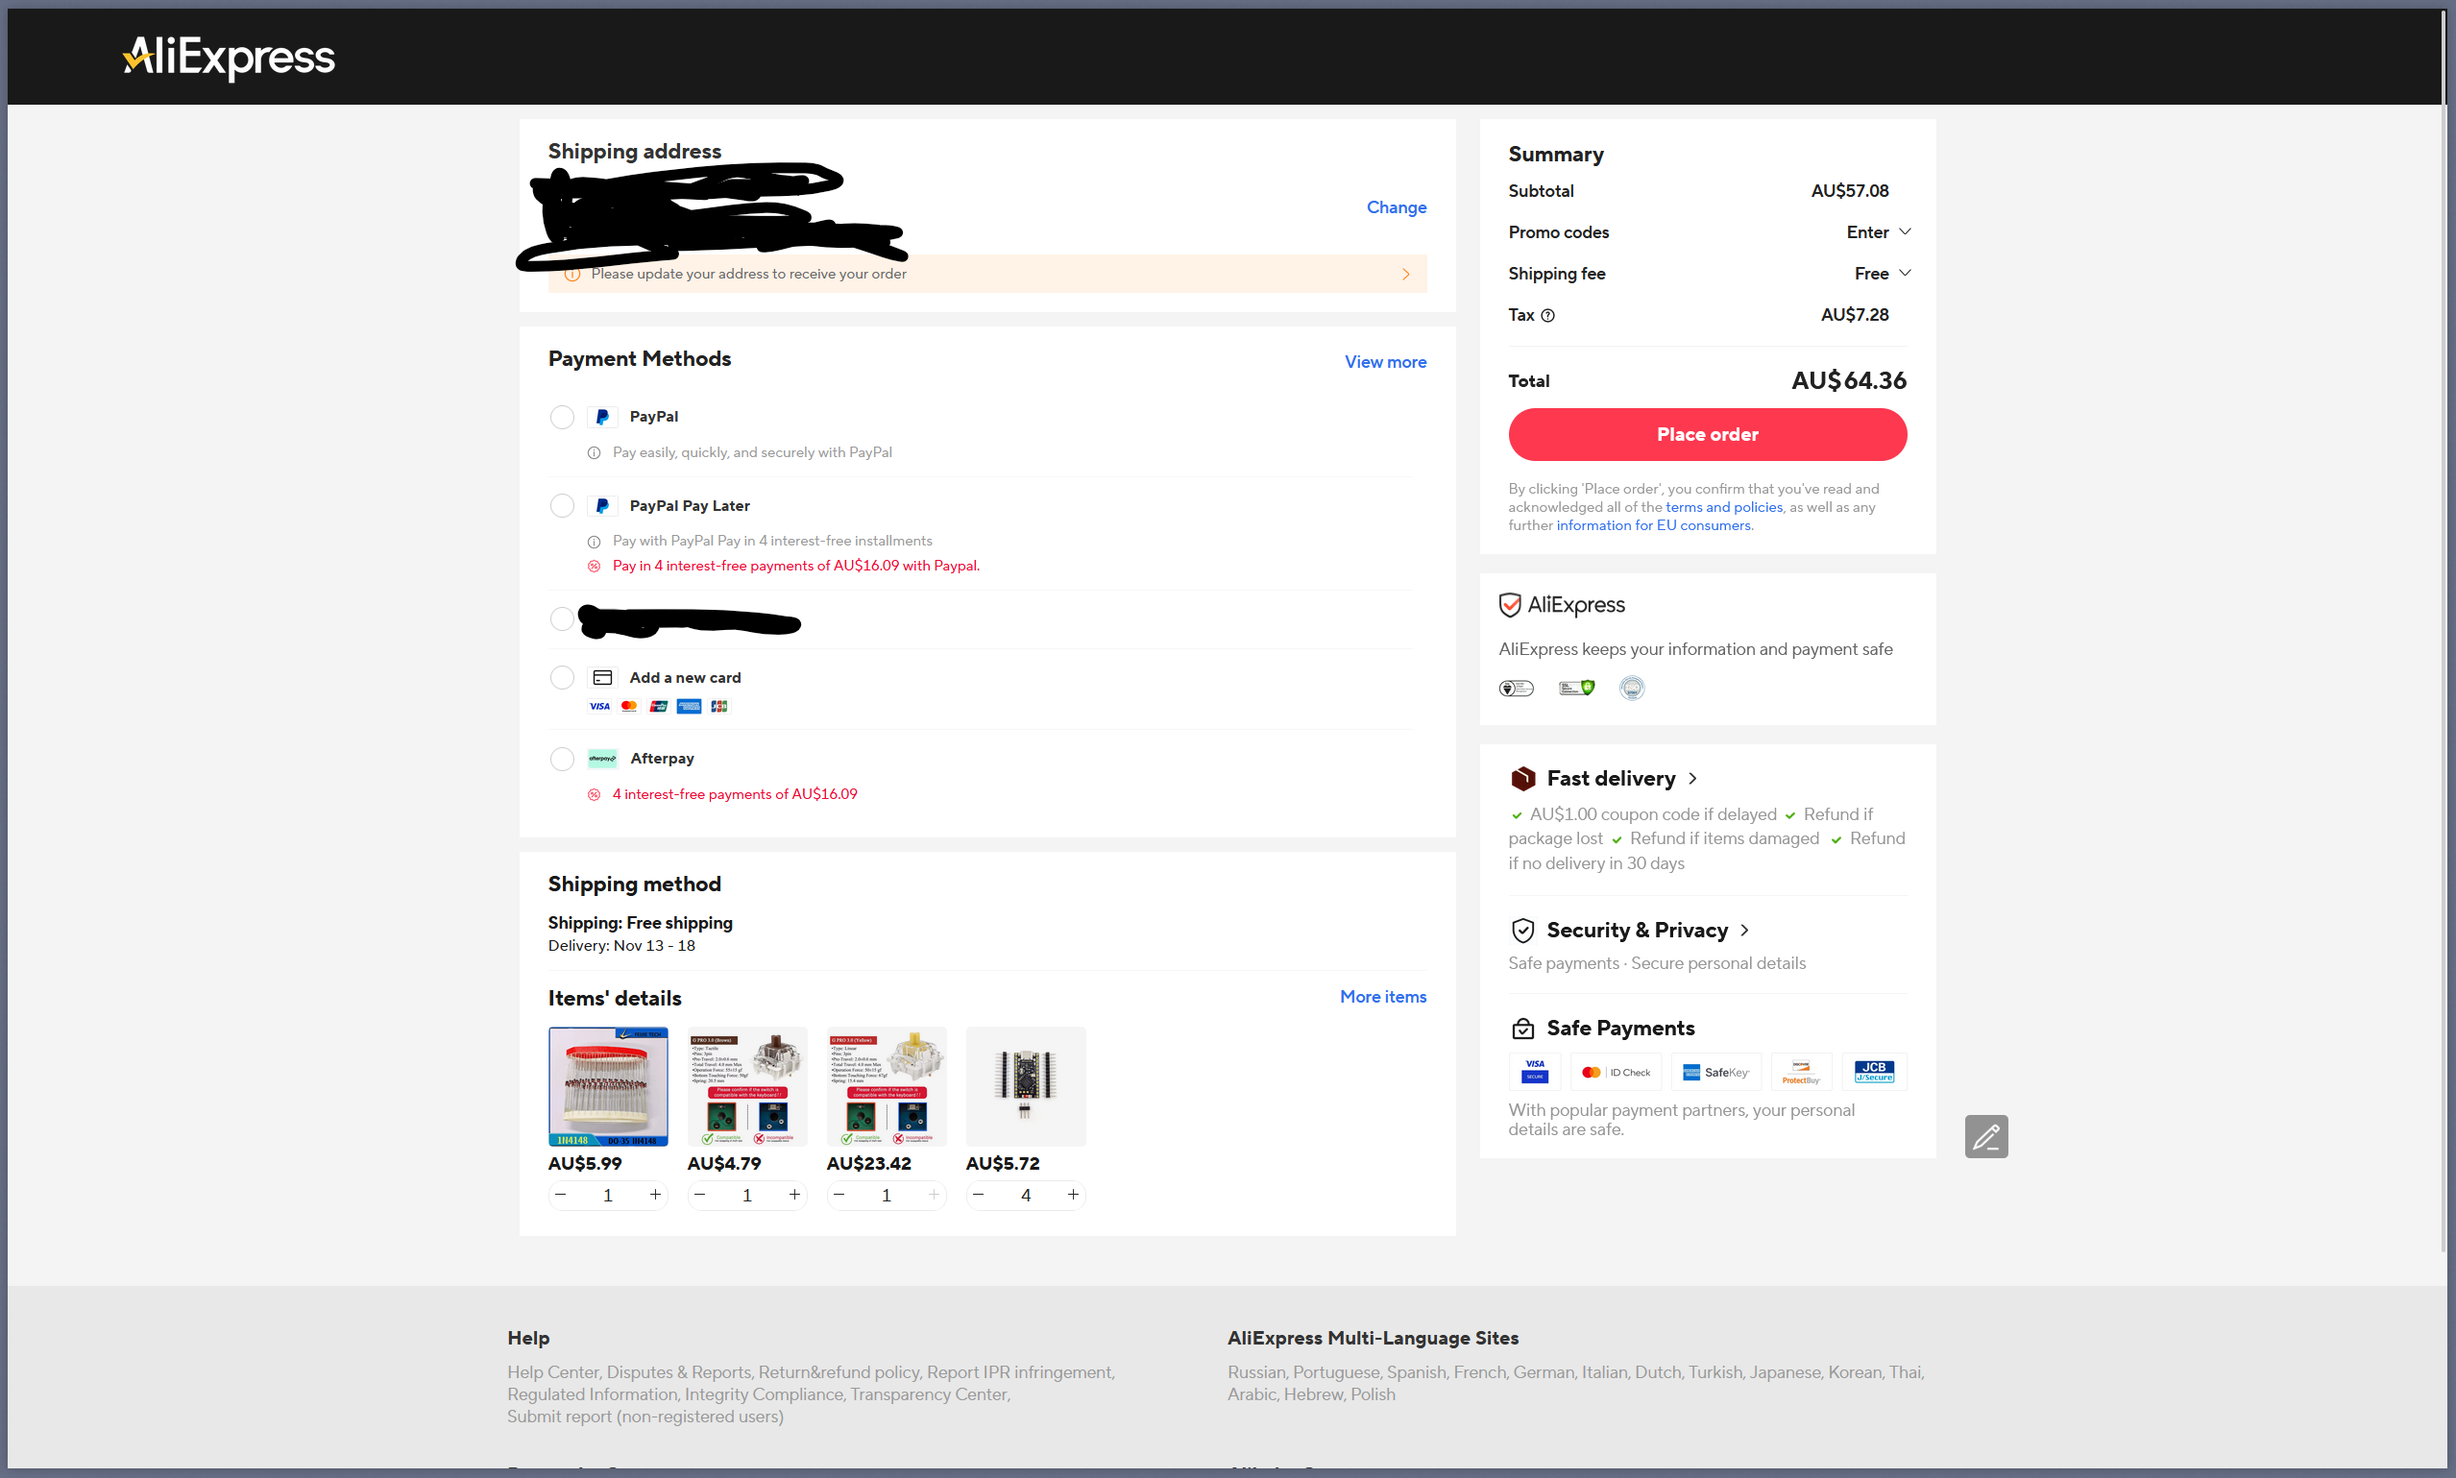
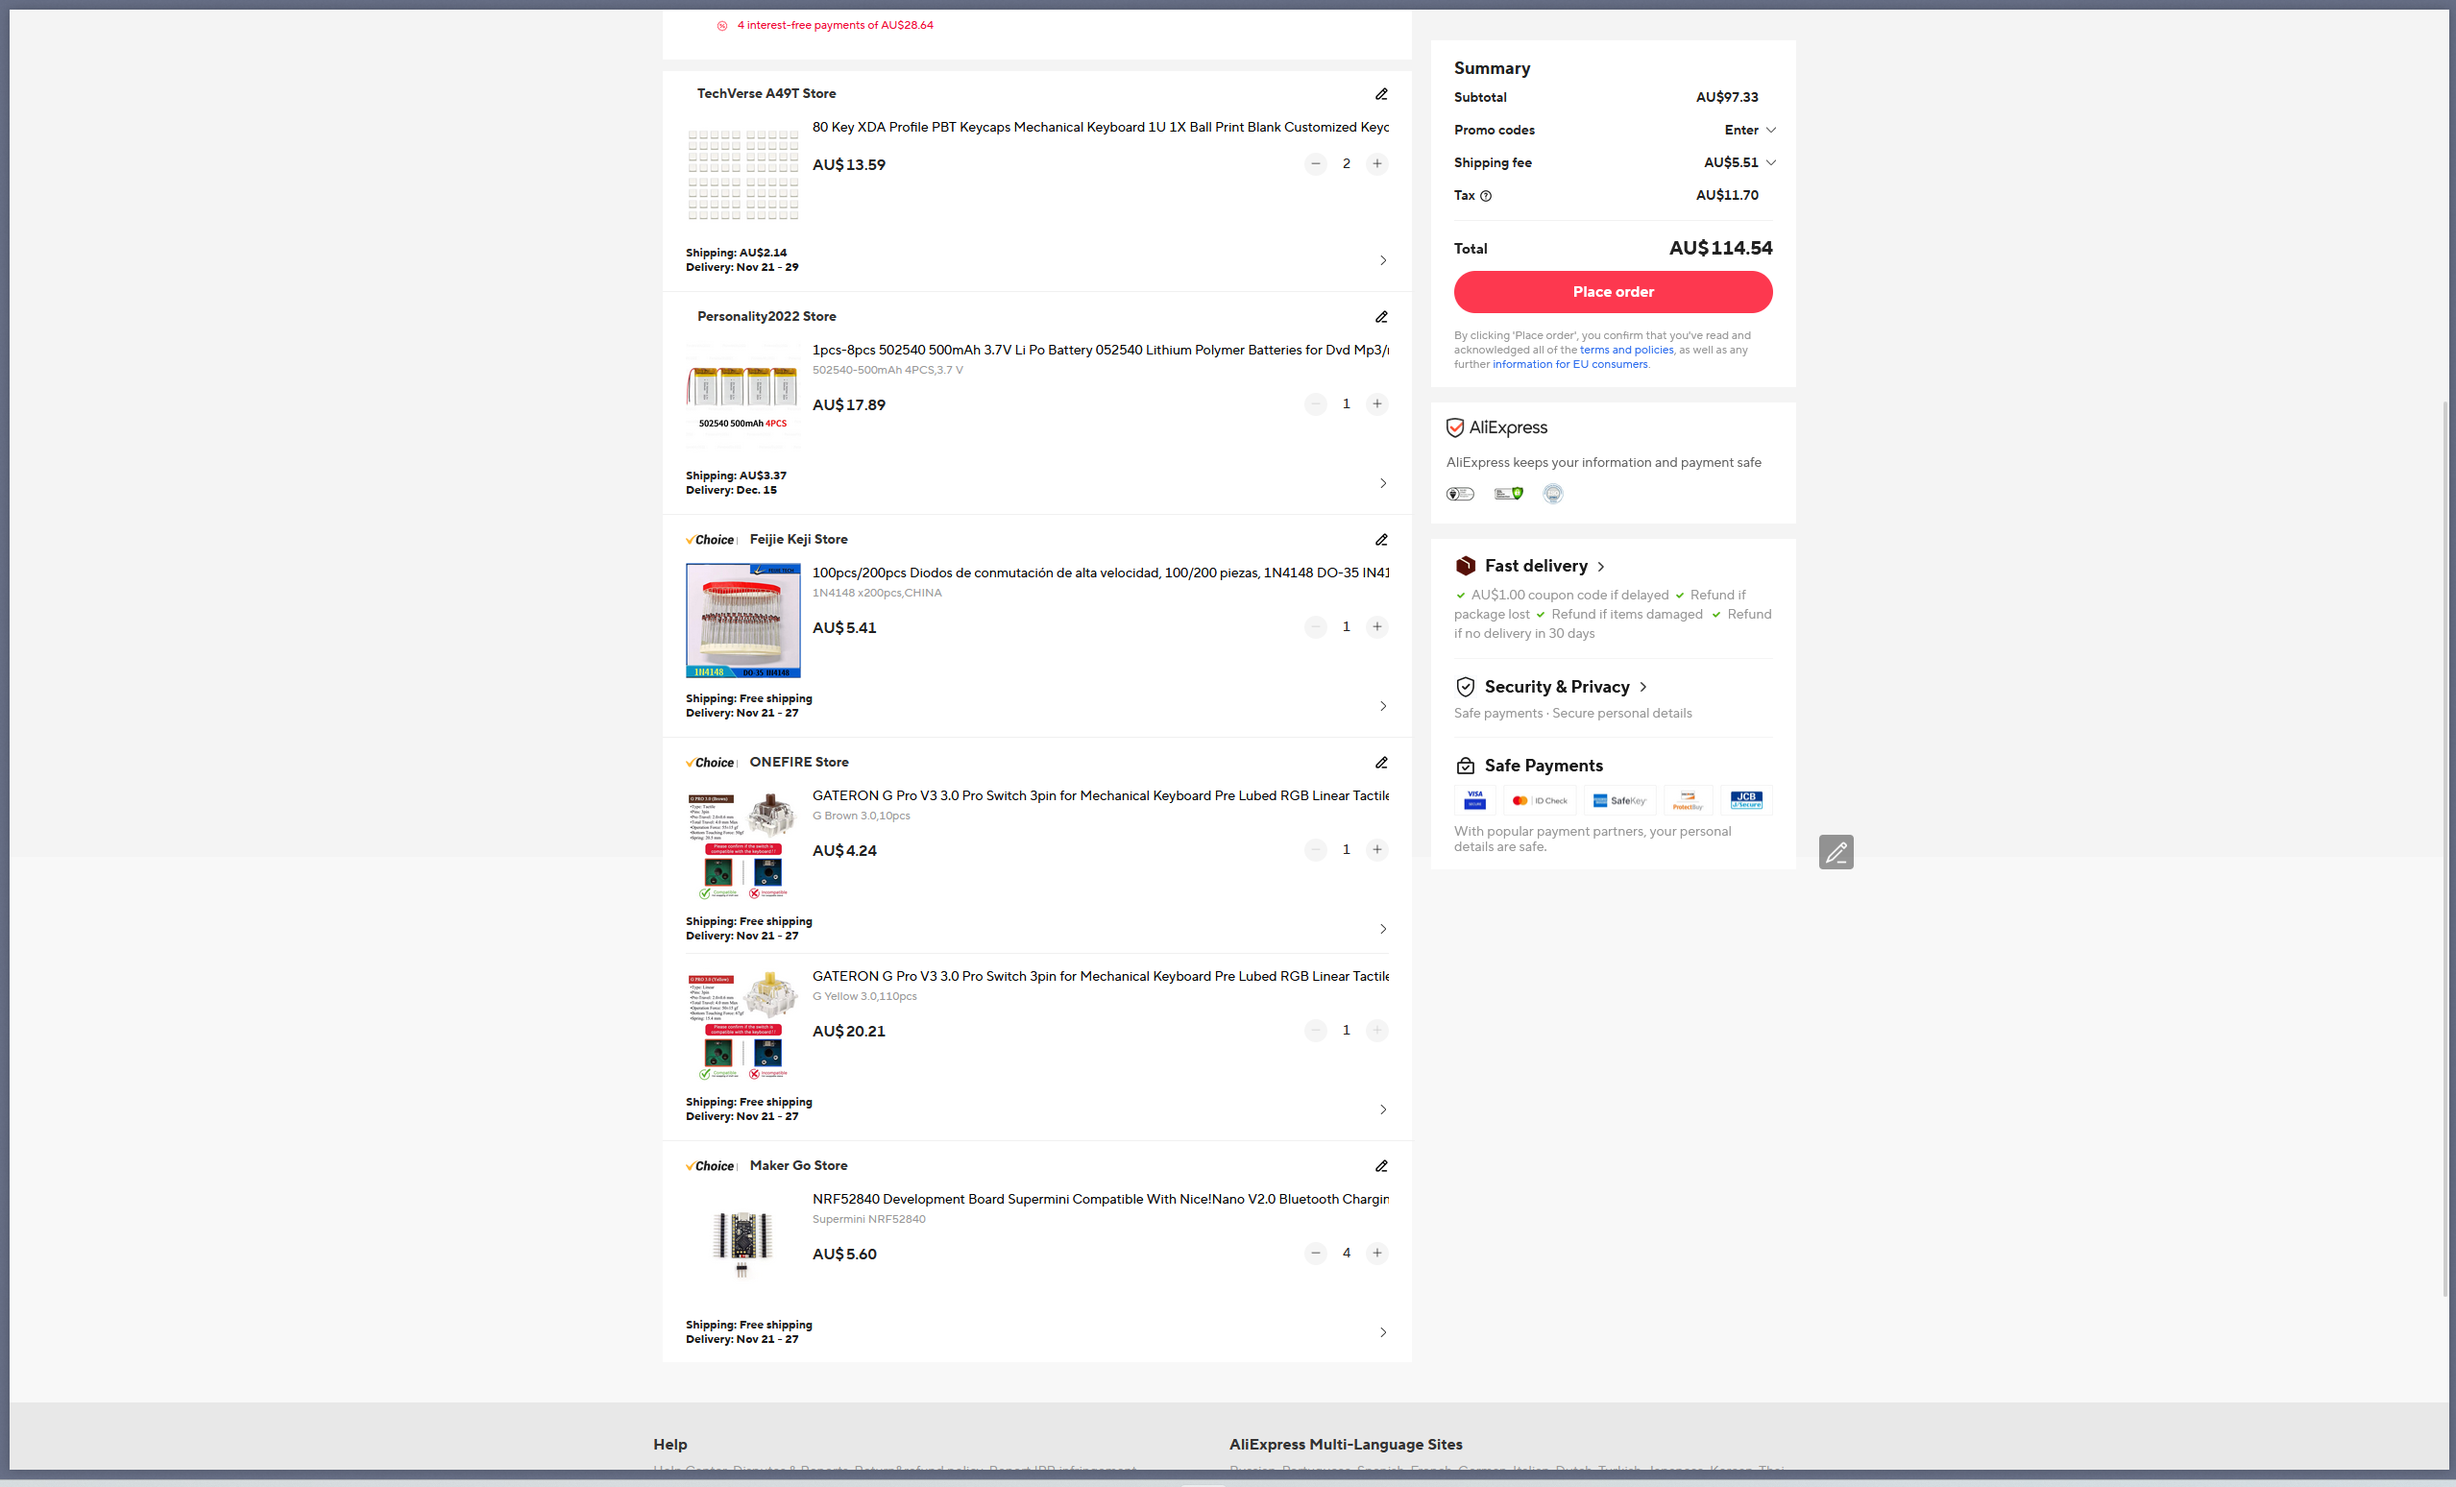
Updated BOM

diff --git a/README.md b/README.md
@@ -31,32 +31,29 @@ Note: this software is in a seperate repo because of the way that ZMK works. The
 
 # Bill of Materials
 
-| **Component Type** | **Item Link** | **Quantity needed** | **Relevant Specifications** | **Tax % (if not included)** | **Price each (AUD)** | **Total Cost (AUD)** | **Total Cost (USD) (using 1 AUD = 0.65 USD)** | Running Cost (AUD | Running Cost (USD) | **Note** |
-| --- | --- | --- | --- | --- | --- | --- | --- | --- | --- | --- |
-| Battery * 2 | https://www.ebay.com.au/itm/172212269580?_skw=ps3+battery+x+2 | 2 | 3.7v, 400mAh, 53x36x6mm, JSTPH | 0.00% | $13.45 | $26.90 | $17.49 | $26.90 | $17.49 |  |
-| NRF52840 | https://www.aliexpress.com/item/1005006035267231.html?afTraceInfo=1005006035267231__pc__c_ppc_item_bridge_pc_main__3EUczl2__1762002951010 | 4 |  | 10.00% | $5.65 | $24.86 | $16.16 | $51.76 | $33.64 |  |
-| Keyboard Switch * 110 | https://www.aliexpress.com/item/1005006376024657.html?mp=1 | 1 | Gateron Brown * 110 | 10.00% | $18.33 | $20.16 | $13.11 | $71.92 | $46.75 | This is using my Welcome Deal on Aliexpress |
-| Keyboard Switch * 10 | https://www.aliexpress.com/item/1005006376024657.html?mp=1 | 1 | Gateron Yellow * 10 | 10.00% | $4.70 | $5.17 | $3.36 | $77.09 | $50.11 | Supplemental Switches, not on welcome deal so substantially more expensive. Will use different type of switch (linear instead of tactile) for modifier keys |
-| Diodes * 200 | https://www.aliexpress.com/item/1005009896621714.html | 1 | Basic 1n4148 diodes | 10.00% | $5.94 | $6.53 | $4.25 | $83.63 | $54.36 |  |
-| PCB * 5 | AllPCB | 1 |  | 0.00% | $2.14 | $2.14 | $1.39 | $85.77 | $55.75 | already purchased |
-| Keycaps | https://www.alibaba.com/product-detail/Multi-color-1U-DSA-Blank-Customized_1600930061454.html | 116 |  | 10.00% | $0.23 | $29.35 | $19.08 | $115.12 | $74.82 | Free shipping with welcome bonus |
+|Component Type       |Item Link                                                 |Quantity needed|Relevant Specifications       |Tax % (if not included)|Price each (AUD)|Total Cost (AUD)|Total Cost (USD) (using 1 AUD = 0.65 USD)|Running Cost (AUD|Running Cost (USD)|Note                                                                                                                                                       |
+|---------------------|----------------------------------------------------------|---------------|------------------------------|-----------------------|----------------|----------------|-----------------------------------------|-----------------|------------------|-----------------------------------------------------------------------------------------------------------------------------------------------------------|
+|Battery * 4          |https://www.aliexpress.com/item/1005006924508264.html?mp=1|1              |3.7v, 400mAh, 53x36x6mm, JSTPH|0.00%                  |$18.40          |$18.40          |$11.96                                   |$18.40           |$11.96            |                                                                                                                                                           |
+|NRF52840             |https://www.aliexpress.com/item/1005006035267231.html?    |4              |                              |10.00%                 |$5.65           |$24.86          |$16.16                                   |$43.26           |$28.12            |                                                                                                                                                           |
+|Keyboard Switch * 110|https://www.aliexpress.com/item/1005006376024657.html?mp=1|1              |Gateron Brown * 110           |10.00%                 |$18.33          |$20.16          |$13.11                                   |$63.42           |$41.22            |This is using my Welcome Deal on Aliexpress                                                                                                                |
+|Keyboard Switch * 10 |https://www.aliexpress.com/item/1005006376024657.html?mp=1|1              |Gateron Yellow * 10           |10.00%                 |$4.70           |$5.17           |$3.36                                    |$68.59           |$44.59            |Supplemental Switches, not on welcome deal so substantially more expensive. Will use different type of switch (linear instead of tactile) for modifier keys|
+|Diodes * 200         |https://www.aliexpress.com/item/1005009896621714.html     |1              |Basic 1n4148 diodes           |10.00%                 |$5.94           |$6.53           |$4.25                                    |$75.13           |$48.83            |                                                                                                                                                           |
+|PCB * 5              |AllPCB                                                    |1              |                              |0.00%                  |$2.14           |$2.14           |$1.39                                    |$77.27           |$50.22            |already purchased                                                                                                                                          |
+|Keycaps * 80         |https://www.aliexpress.com/item/1005007415198959.html?mp=1|2              |                              |10.00%                 |$13.58          |$29.88          |$19.42                                   |$107.14          |$69.64            |                                                                                                                                                           |
+
 
 # Note on Pricing
 Since a lot of these sites have little fees that are hard to deal with on a one by one basis (such as payment processing fees, et cetera). So, the final numbers as given at checkout are slightly different.
 Additionally, there is a chance that these prices may fluctuate. If they go up at all, I am able to cover the cost (I am willing to spend a bit of my money on this, and don't need a grant for all of it).
 
-![Alibaba Order](./img/alibaba_order.png)
 ![Aliexpress Order](./img/aliexpress_order.png)
 ![Allpcb](./img/allpcbOrder.png)
 Note: this order actually cost me $2.14, it's just not showing the right amount because that was a one time discount
-![Order Order](./img/ebay_order.png)
 
 Prices:
-- Alibaba: AU$33.60
-- Aliexpress: AU$66.36
+- Aliexpress: AU$114.54
 - Allpcb: AU$2.14
-- Ebay: AU$26.90
 
-Total: AU$129
-In USD: US$83.79
+Total: AU$116.68
+In USD: US$76.20
 Note: if I do not qualify for a full support, i can cover a portion of it.
